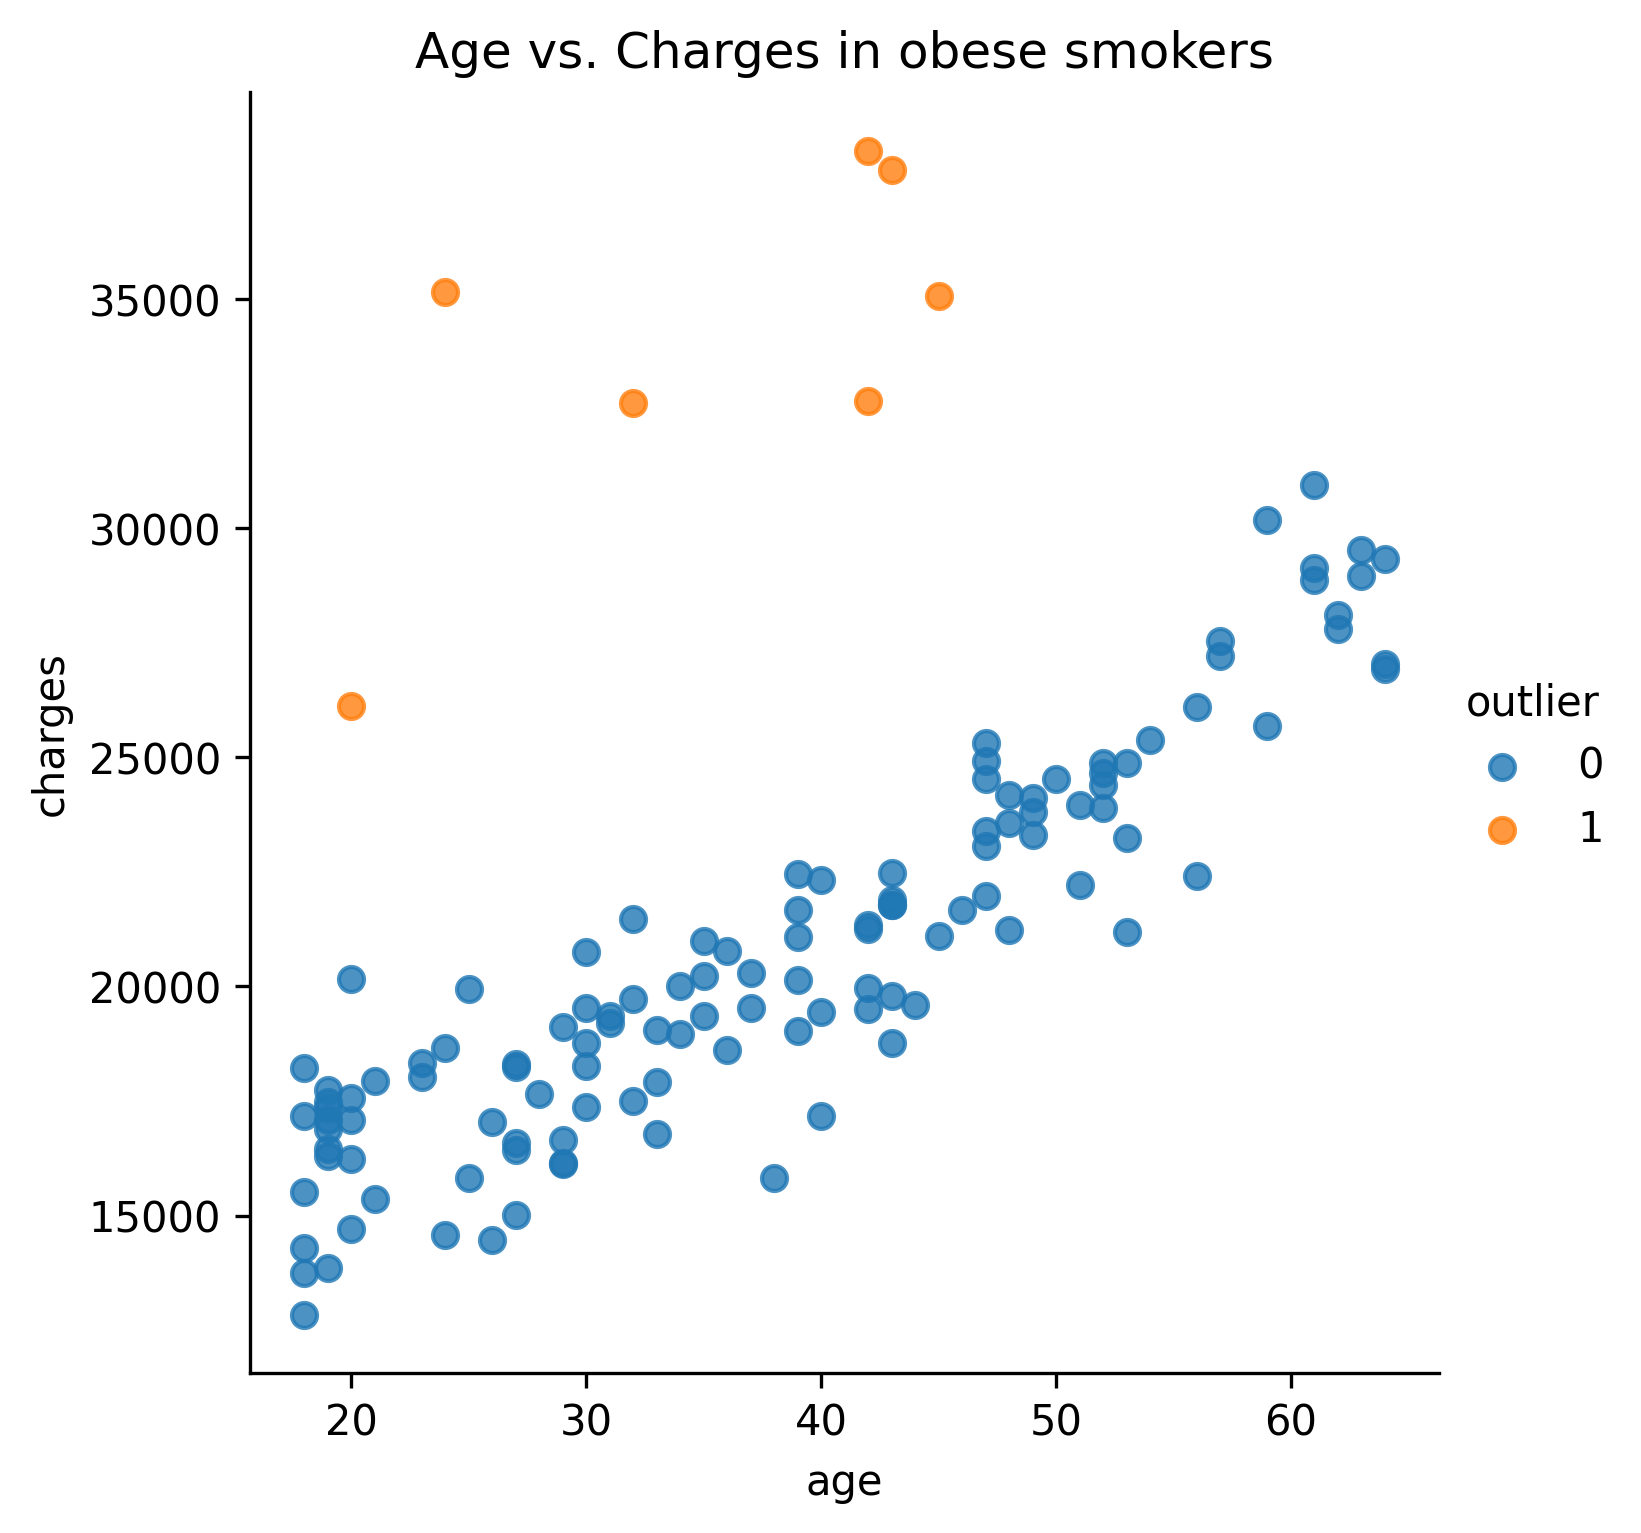
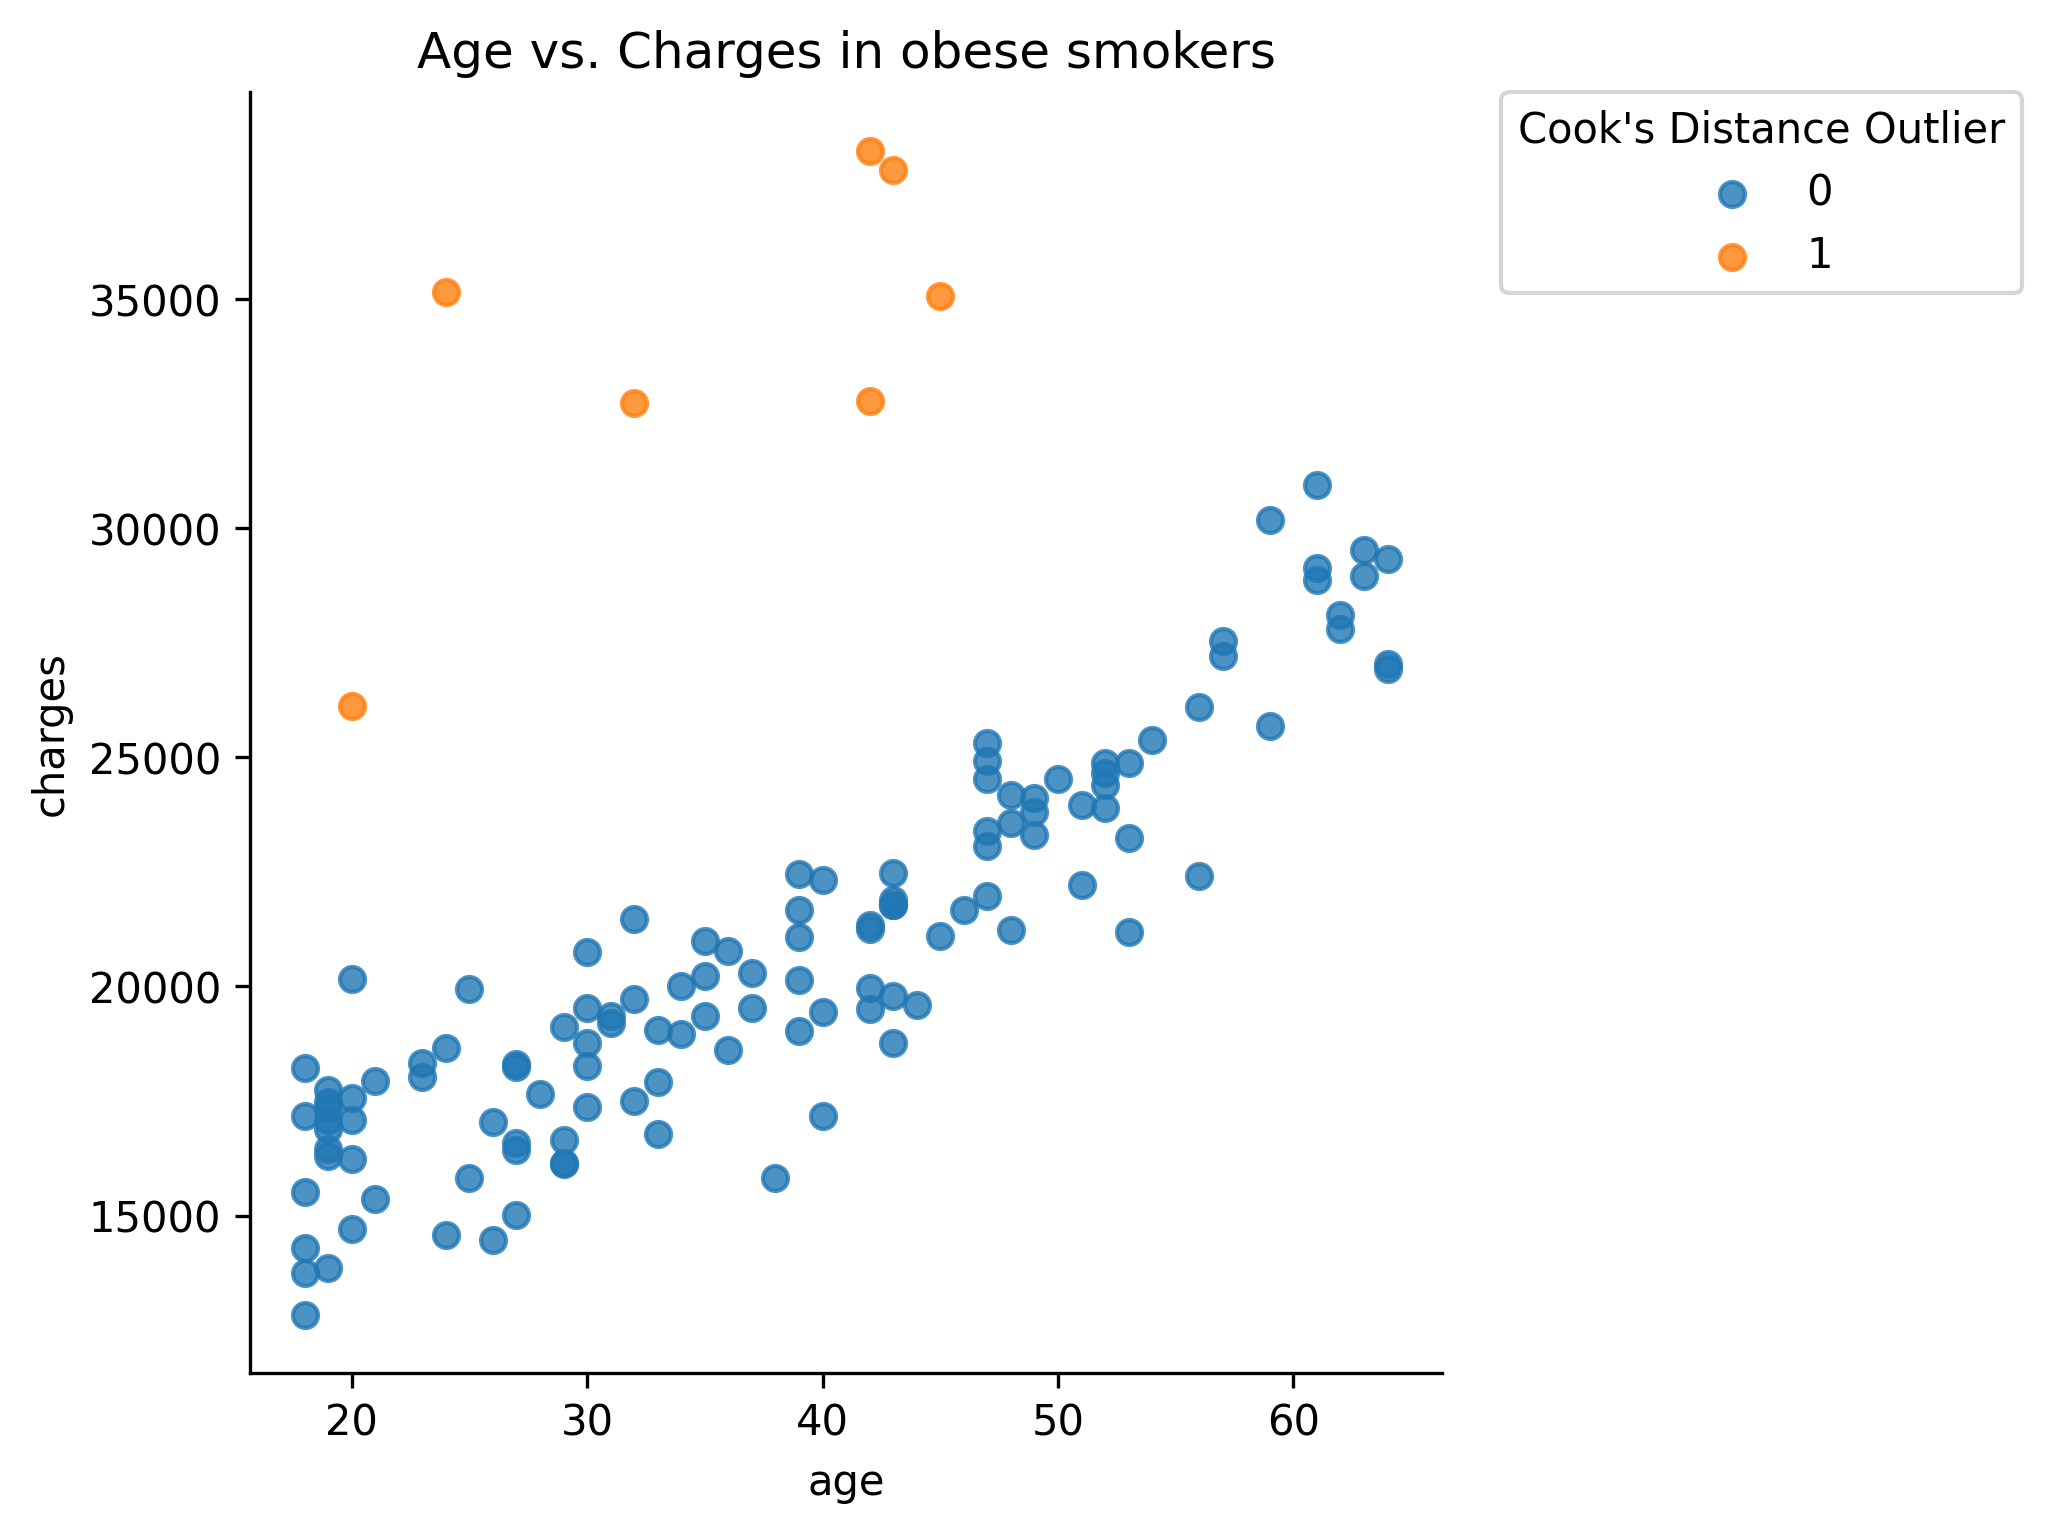
update plots

diff --git a/cost_modeling.py b/cost_modeling.py
@@ -821,7 +821,7 @@ plt.plot([0, len(cooks)], [cooks_cutoff, cooks_cutoff], color='darkblue', linest
 plt.xlabel("Observation")
 plt.ylabel("Cook's Distance")
 plt.legend(title="Cook's Distance Cutoff")
-dh.save_image('cooks_dist_plot', models_output_dir)
+#dh.save_image('cooks_dist_plot', models_output_dir)
 plt.show()
 
 # ==========================================================
@@ -837,6 +837,7 @@ plt.ylabel('Standardized Residuals')
 plt.xlabel('Predicted Values')
 plt.title('Standardized Residuals vs. Predicted Values')
 plt.legend()
+#dh.save_image('outliers_pred_vs_resid', models_output_dir)
 plt.show()
 
 # ==========================================================
@@ -856,8 +857,9 @@ orig_data_w_outlier['bmi_>=_30'] = orig_data_w_outlier['bmi_>=_30'].map(bmi_dict
 # Nonsmoker age vs. charges
 nonsmoker_outlier_df = orig_data_w_outlier[orig_data_w_outlier['smoker']=='no']
 # LM plot just makes it easier to color by outlier
-sns.lmplot(x='age', y='charges', hue="outlier", data=nonsmoker_outlier_df, ci=None, line_kws={'alpha':0})
+sns.lmplot(x='age', y='charges', hue="outlier", data=nonsmoker_outlier_df, ci=None, line_kws={'alpha':0}, legend=False)
 plt.title("Age vs. Charges in nonsmokers")
+#dh.save_image('outliers_age_v_charges_nonsmoker', models_output_dir)
 
 num_outliers_in_nonsmokers = nonsmoker_outlier_df[nonsmoker_outlier_df['outlier'] == 1].shape[0] # 74
 perc_outliers_in_nonsmokers = num_outliers_in_nonsmokers / nonsmoker_outlier_df.shape[0] # 0.0695
@@ -865,8 +867,9 @@ perc_outliers_in_nonsmokers = num_outliers_in_nonsmokers / nonsmoker_outlier_df.
 # Obese smoker age vs. charges
 ob_smoker_outlier_df = orig_data_w_outlier[(orig_data_w_outlier['smoker']=='yes') & (orig_data_w_outlier['bmi_>=_30']=='yes')]
 # LM plot just makes it easier to color by outlier
-sns.lmplot(x='age', y='charges', hue="outlier", data=ob_smoker_outlier_df, ci=None, line_kws={'alpha':0})
+sns.lmplot(x='age', y='charges', hue="outlier", data=ob_smoker_outlier_df, ci=None, line_kws={'alpha':0}, legend=False)
 plt.title("Age vs. Charges in obese smokers")
+#dh.save_image('outliers_age_v_charges_ob_smoker', models_output_dir)
 
 num_outliers_in_ob_smokers = ob_smoker_outlier_df[ob_smoker_outlier_df['outlier'] == 1].shape[0] # 9
 perc_outliers_in_ob_smokers = num_outliers_in_ob_smokers / ob_smoker_outlier_df.shape[0] # 0.0620
@@ -874,8 +877,10 @@ perc_outliers_in_ob_smokers = num_outliers_in_ob_smokers / ob_smoker_outlier_df.
 # Nonobese smoker age vs. charges
 nonob_smoker_outlier_df = orig_data_w_outlier[(orig_data_w_outlier['smoker']=='yes') & (orig_data_w_outlier['bmi_>=_30']=='no')]
 # LM plot just makes it easier to color by outlier
-sns.lmplot(x='age', y='charges', hue="outlier", data=nonob_smoker_outlier_df, ci=None, line_kws={'alpha':0})
+sns.lmplot(x='age', y='charges', hue="outlier", data=nonob_smoker_outlier_df, ci=None, line_kws={'alpha':0}, legend=False)
 plt.title("Age vs. Charges in obese smokers")
+plt.legend(title="Cook's Distance Outlier")
+#dh.save_image('outliers_age_v_charges_nonob_smoker', models_output_dir)
 
 num_outliers_in_nonob_smokers = nonob_smoker_outlier_df[nonob_smoker_outlier_df['outlier'] == 1].shape[0] # 7
 perc_outliers_in_nonob_smokers = num_outliers_in_nonob_smokers / nonob_smoker_outlier_df.shape[0] # 0.0542
